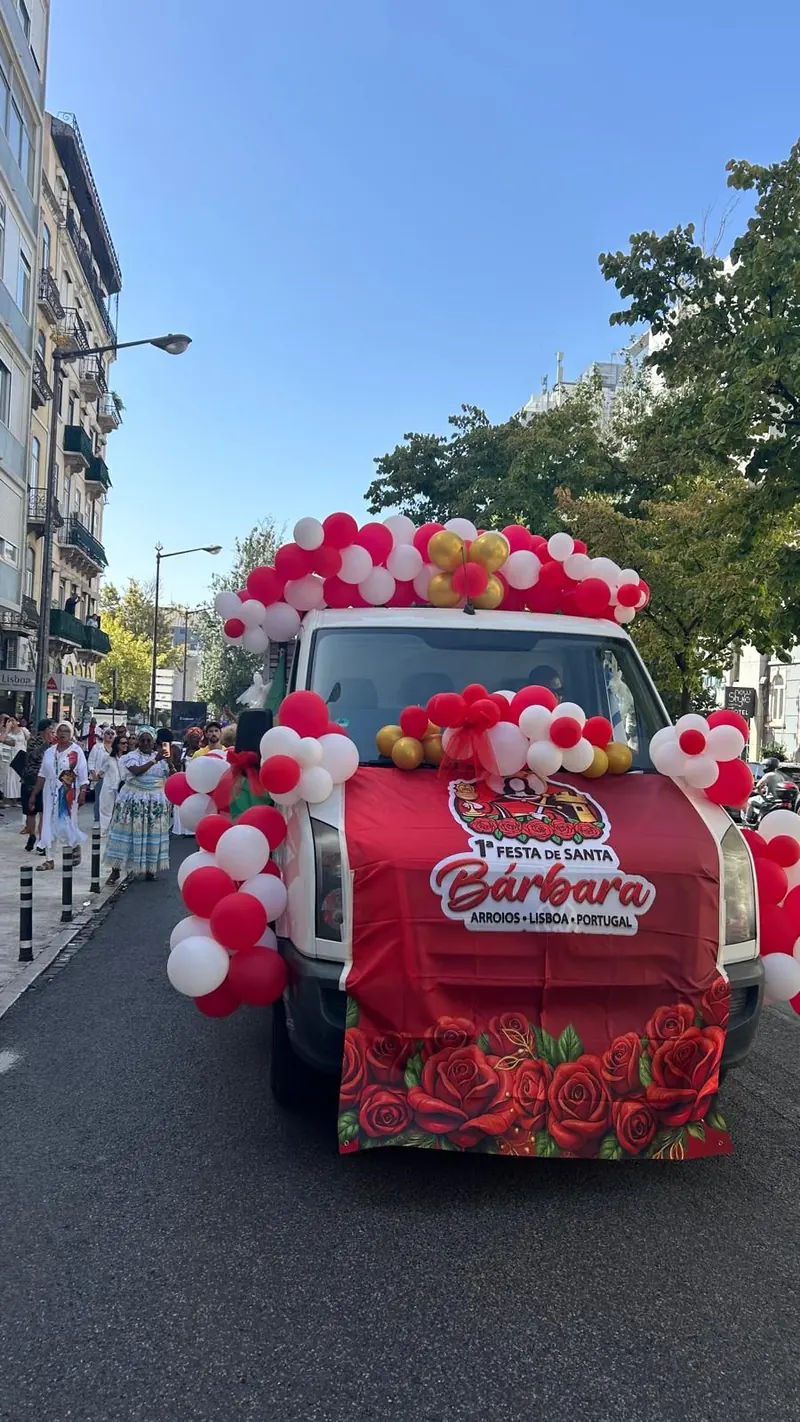
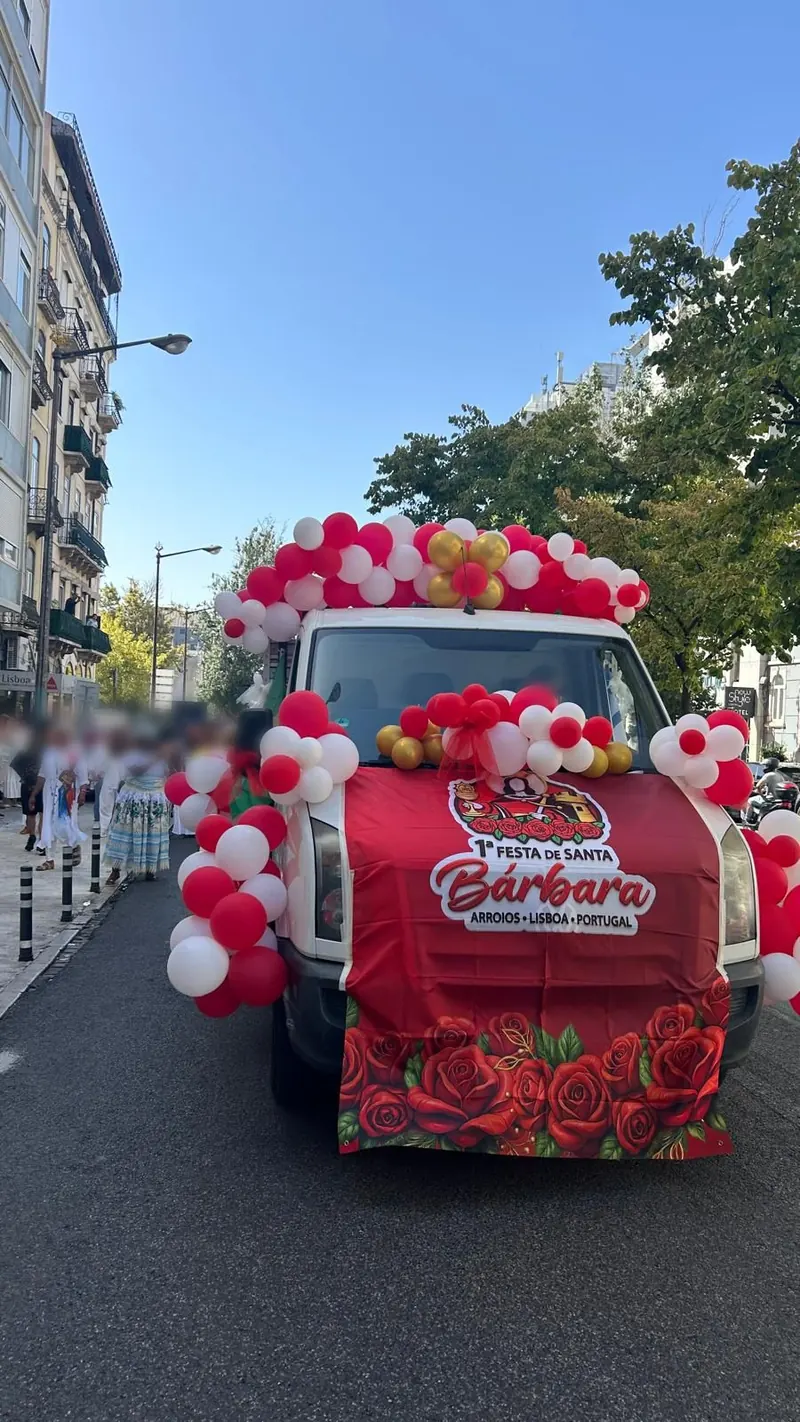
Desfoca rostos de fundo, corrige enquadramentos e foco da galeria e põe as bandeiras em Portugal e Brasil.
Rostos pequenos nas fotos 04, 07 e 09 desfocados; coroa da santa visível
nos cartões; anel de foco da galeria fora da foto; referências bíblicas
sem quebra; foto das bandeiras emoldurada em /portugal-e-brasil/.

Changed region(s): [[0.0, 0.4641, 0.3438, 0.557], [0.6562, 0.4641, 0.7188, 0.4951]]

diff --git a/src/styles/global.css b/src/styles/global.css
@@ -917,7 +917,7 @@ a[data-slot="button"] { text-decoration: none; }
 }
 
 .reading { max-width: 68ch; display: grid; gap: 22px; }
-.reading > p { font-size: 1.125rem; line-height: 1.8; }
+.reading > p, .reading-figure__text > p { font-size: 1.125rem; line-height: 1.8; }
 .dropcap::first-letter {
   float: left;
   margin: 6px 12px 0 0;
@@ -1314,7 +1314,9 @@ a[data-slot="button"] { text-decoration: none; }
 .gallery__item--lead img { object-position: 50% 20%; }
 .gallery__item img { width: 100%; height: 100%; object-fit: cover; transition: transform 0.6s var(--ease-out); }
 .gallery__item a:hover img { transform: scale(1.04); }
-.gallery__item a:focus-visible { outline-offset: -3px; }
+/* Focus ring outside the photo, on the ivory page (WCAG 1.4.11): never drawn over the image. */
+.gallery__item a:focus-visible { outline: none; }
+.gallery__item:has(a:focus-visible) { outline: 2px solid var(--focus); outline-offset: 3px; }
 .gallery__item figcaption { padding: 6px 10px; color: #5c564e; font-size: 0.75rem; }
 .gallery__credit { margin-top: 10px; color: #5c564e; font-size: 0.8125rem; }
 .gallery__item--fill2 { grid-column: 1 / -1; }
@@ -1387,9 +1389,22 @@ a[data-slot="button"] { text-decoration: none; }
 .celebration__sub { font-size: 1.375rem; margin-top: 8px; }
 .celebration__list { list-style: decimal; margin: 0; padding-left: 1.5rem; display: grid; gap: 10px; }
 .celebration__list li { line-height: 1.65; padding-left: 4px; }
+.celebration__ref { white-space: nowrap; }
 .celebration__list li::marker { color: #a9433d; font-weight: 600; }
 .celebration__list strong { color: #6d1723; }
 .celebration__source { color: #5c564e; font-size: 0.875rem; }
+
+/* Text with a framed photo beside it (photo never wider than its file) */
+.reading-figure { display: grid; gap: 28px; }
+.reading-figure > * { min-width: 0; }
+.reading-figure__text { display: grid; gap: 20px; align-content: start; }
+.frame-photo { margin: 0; justify-self: start; width: 100%; max-width: 739px; }
+.frame-photo > img { display: block; width: 100%; height: auto; border-radius: 12px; border: 1px solid #b58a3a; background: #efe6d4; }
+.frame-photo figcaption { margin-top: 10px; color: #5c564e; font-size: 0.875rem; line-height: 1.5; }
+.frame-photo figcaption a { display: inline-flex; align-items: center; gap: 4px; color: #6d1723; text-underline-offset: 4px; text-decoration-color: #b58a3a; white-space: nowrap; }
+@media (min-width: 900px) {
+  .reading-figure { grid-template-columns: minmax(0, 1fr) 240px; gap: 36px; align-items: start; }
+}
 
 /* Self-hosted event video (drawn only when the file exists at build time) */
 .event-video { display: grid; gap: 12px; min-width: 0; }

diff --git a/src/data/eventos-fotos.ts b/src/data/eventos-fotos.ts
@@ -9,26 +9,28 @@ export type Foto = {
   altura: number;
   credito?: string;
   origem: string;
+  // CSS object-position when the photo is cropped by a frame (default: centre).
+  posicao?: string;
 };
 
 const cedida = "Fotografia cedida pela organização";
 
-function foto(slug: string, nn: string, largura: number, altura: number, alt: string): Foto {
+function foto(slug: string, nn: string, largura: number, altura: number, alt: string, posicao?: string): Foto {
   const base = `/eventos/${slug}/${nn}`;
-  return { src: `${base}.webp`, src800: `${base}-800.webp`, alt, largura, altura, origem: cedida };
+  return { src: `${base}.webp`, src800: `${base}-800.webp`, alt, largura, altura, origem: cedida, ...(posicao ? { posicao } : {}) };
 }
 
 const sb = "festa-de-santa-barbara-lisboa-2026";
 
 export const fotosPorEvento: Record<string, Foto[]> = {
   [sb]: [
-    foto(sb, "14", 1080, 1439, "Imagem de Santa Bárbara, de manto vermelho e coroa, diante de uma moldura de rosas vermelhas com o logótipo da 1.ª Festa de Santa Bárbara, entre flores brancas e vermelhas."),
+    foto(sb, "14", 1080, 1439, "Imagem de Santa Bárbara, de manto vermelho e coroa, diante de uma moldura de rosas vermelhas com o logótipo da 1.ª Festa de Santa Bárbara, entre flores brancas e vermelhas.", "50% 3%"),
     foto(sb, "09", 1200, 1600, "Andor com a imagem de Santa Bárbara e arranjos de flores brancas e vermelhas, levado aos ombros numa rua de Arroios, visto por trás, com mulheres de saias rendadas vermelhas e brancas."),
     foto(sb, "07", 900, 1600, "Carrinha enfeitada com balões vermelhos, brancos e dourados e com a faixa da 1.ª Festa de Santa Bárbara, a abrir o cortejo numa avenida arborizada de Lisboa."),
     foto(sb, "03", 1080, 864, "Interior da Igreja de Nossa Senhora dos Anjos, em Arroios: abóbada pintada, talha dourada e o altar-mor com o crucifixo."),
     foto(sb, "06", 739, 1311, "Imagem de Santa Bárbara ao lado de um painel redondo com o logótipo da festa e de um andor com flores, num espaço interior."),
     foto(sb, "04", 739, 1311, "Frente da carrinha decorada com arco de balões e faixa vermelha com rosas e o nome da festa: Arroios, Lisboa, Portugal."),
     foto(sb, "05", 739, 1311, "Bandeiras do Brasil e da Bahia presas a um veículo do cortejo, sob um céu azul."),
-    foto(sb, "12", 1080, 1440, "Mãos a segurar um cesto forrado de renda, cheio de bolinhos fritos, durante a festa."),
+    foto(sb, "12", 1080, 1440, "Mãos a segurar um cesto forrado de renda, cheio de bolinhos fritos, durante a festa.", "50% 60%"),
   ],
 };

diff --git a/docs/CONTEUDO.md b/docs/CONTEUDO.md
@@ -232,7 +232,9 @@ Celebração eucarística em honra de Santa Bárbara no domingo, 6 de setembro d
 
 Fora do site, de propósito: os nomes dos leitores, a lista de agradecimentos, quem ofereceu a imagem, a homenagem pessoal da presidente a um familiar, o telefone do Brasil, o e-mail pessoal e o Instagram pessoal da contracapa. `tests/eventos-media.test.mjs` guarda os nomes como hash e falha se aparecerem no `dist/`.
 
-Galeria: 8 fotografias aprovadas pelo juridico (imagem da santa, andor visto de costas, carrinha, interior da igreja recortado acima da assembleia, bandeiras, cesto). Origem «Fotografia cedida pela organização». As 6 com pessoas reconhecíveis em destaque ficam retidas até autorização escrita, fora de `public/` e do git.
+Galeria: 8 fotografias aprovadas pelo juridico (imagem da santa, andor visto de costas, carrinha, interior da igreja recortado acima da assembleia, bandeiras, cesto). Origem «Fotografia cedida pela organização». Rostos pequenos ao fundo (passeio, motorista, perfil de quem leva o andor) desfocados a 2026-11-15, depois do qa.
+
+Portugal e Brasil: a foto das bandeiras do Brasil e da Bahia (05) fica emoldurada ao lado do texto sobre a festa, com a legenda «Bandeiras do Brasil e da Bahia no cortejo de Arroios. Ver a festa» (ligação à página do evento). Não repete a capa do evento. As 6 com pessoas reconhecíveis em destaque ficam retidas até autorização escrita, fora de `public/` e do git.
 
 Vídeo: bloco pronto em `/projetos/festa-de-santa-barbara-lisboa-2026/` e na home, desenhado só quando `public/video/festa-santa-barbara.mp4` existe no build. Nome e descrição em `eventos.ts` (`video`); falta pôr `duracao` (ISO, ex. `PT2M30S`) e `carregadoEm` quando o ficheiro chegar, senão o build para com a mensagem do que falta.
 
